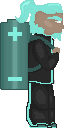
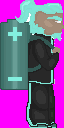
transparency

Changed region(s): [[0.0, 0.6875, 0.4688, 1.0], [0.5312, 0.0, 1.0, 1.0], [0.0, 0.0, 0.4062, 0.1875]]

diff --git a/game/game.py b/game/game.py
@@ -16,7 +16,7 @@ class JouleThiefGame:
 	def mainloop(self):
 		self.clock = pygame.time.Clock()
 		while True:
-			dt = self.clock.tick(60)
+			dt = self.clock.tick(0)
 			if dt==0 or dt>50:
 				continue
 			dt=float(dt)/1000
@@ -25,10 +25,11 @@ class JouleThiefGame:
 			for event in events:
 				if (event.type==pygame.KEYDOWN and event.key==pygame.K_q) or event.type==pygame.QUIT:
 					1/0
-			self.screen.fill((0,0,0))
+			self.screen.fill((0,0,100))
 			self.state.handle_events(events)
 			self.state.update(dt)
 			self.hw_screen.blit(self.screen, (0,0))
+			self.hw_screen.blit(pygame.font.SysFont("monospace", 16).render(str(int(1/dt))+"  ", False, (0,255,0), (0,0,0)), (0,0))
 			pygame.display.flip()
 
 class GameState:

diff --git a/game/creatures.py b/game/creatures.py
@@ -5,6 +5,7 @@ class SimpleImageEntity(game.Entity):
 	def __init__(self, path=None, **k):
 		game.Entity.__init__(self, **k)
 		self.image = pygame.image.load(path).convert()
+		self.image.set_colorkey((255,0,255))
 		self.size = self.image.get_size()
 
 	def draw(self, dt):
